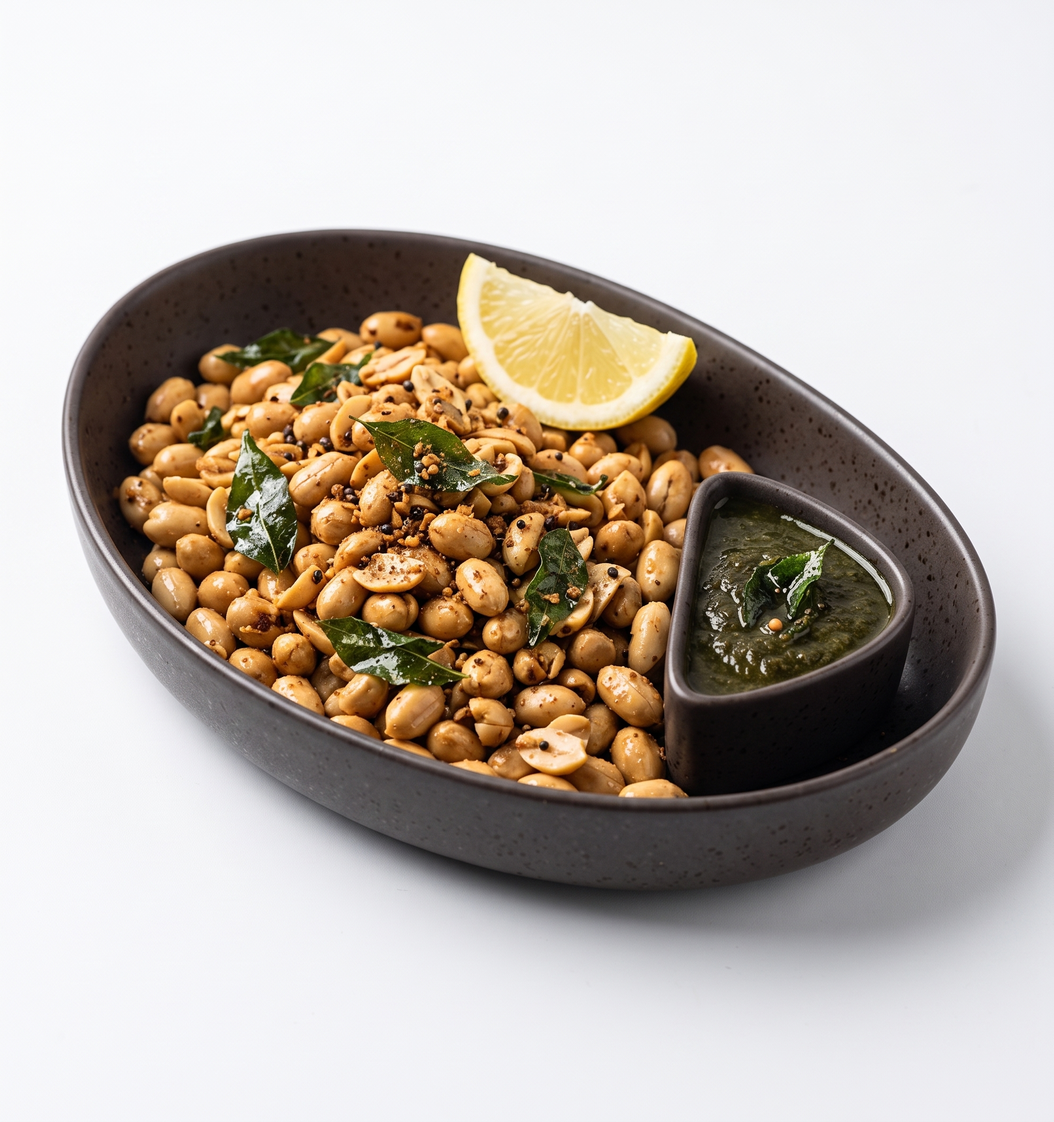
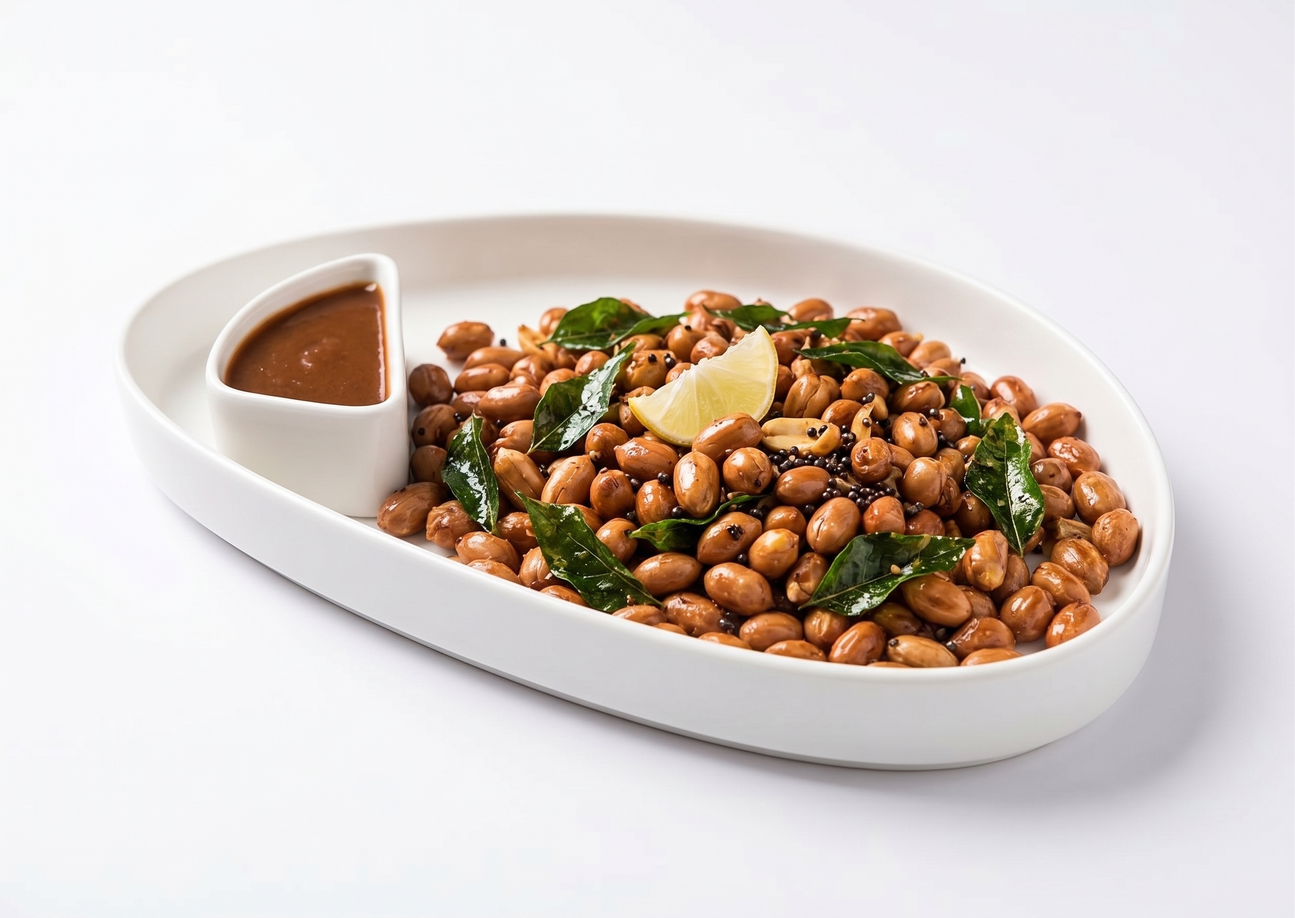
Fix plateware color and reference-image contamination bug
The oval sauce-well plate was mistakenly described as dark charcoal in
the prompt (reference is white/beige); also the raw reference photos
were phone screenshots with UI chrome and a warehouse background that
were bleeding into the generated images (stray page-counter text,
etc). Cropped the reference photos and dropped the noisy tray/martini
references in favor of text-only prompts for those two. Regenerating
affected categories.

diff --git a/theater-menu-photography/generate_images.py b/theater-menu-photography/generate_images.py
@@ -27,8 +27,9 @@ OUT = os.path.join(BASE, "output")
 REFERENCE_IMAGES = {
     "oval_sauce_well": os.path.join(REFS, "oval-plate-sauce-well.jpeg"),
     "round_plain": os.path.join(REFS, "round-oval-plain-plate.jpeg"),
-    "wooden_tray": os.path.join(REFS, "curved-wooden-tray.jpeg"),
-    "copper_martini": os.path.join(REFS, "copper-martini-glass.jpeg"),
+    # wooden_tray and copper_martini reference photos are a cluttered warehouse
+    # shot and a dimension-spec diagram respectively; both risk bleeding text/
+    # background into the output, so we rely on the text prompt alone for them.
 }
 
 MIN_2K_DIM = 1536  # below this we treat the result as a silent 1K fallback
@@ -119,6 +120,21 @@ def main():
 
         ref_part = load_ref_part(it["plateware"])
         print(f"[{idx}/{len(items)}] {it['name']} ({it['category']})", flush=True)
+
+        if os.path.exists(filepath):
+            try:
+                with Image.open(filepath) as im:
+                    w, h = im.size
+                if max(w, h) >= MIN_2K_DIM:
+                    print(f"  Already have {rel_path} ({w}x{h}), skipping", flush=True)
+                    manifest_rows.append([
+                        it["name"], it["category"], it["price_vnd_k"], rel_path,
+                        it["prompt"], f"{w}x{h}", "ok (pre-existing)",
+                    ])
+                    successes += 1
+                    continue
+            except Exception:
+                pass
 
         status = "ok"
         actual_res = ""

diff --git a/theater-menu-photography/build_menu_items.py b/theater-menu-photography/build_menu_items.py
@@ -15,14 +15,16 @@ STYLE_SUFFIX = (
 
 PLATEWARE = {
     "oval_sauce_well": (
-        "Presented on a matte dark charcoal-brown speckled ceramic oval plate "
+        "Presented on a matte white/off-white ceramic oval plate (NOT dark, "
+        "NOT black, NOT charcoal - the plate itself is white/cream colored) "
         "with a small built-in triangular sauce well on one side holding a "
         "matching chutney or dip, exactly like the reference plate provided."
     ),
     "round_plain": (
-        "Presented on a plain matte white/cream ceramic oval plate with a "
-        "subtle organic hand-thrown rim texture, exactly like the reference "
-        "plate provided."
+        "Presented on a plain matte white/cream ceramic oval plate (NOT dark, "
+        "NOT black, NOT charcoal - the plate itself is white/cream colored) "
+        "with a subtle organic hand-thrown rim texture, exactly like the "
+        "reference plate provided."
     ),
     "wooden_tray": (
         "Presented on a curved dark walnut wooden serving tray with several "
